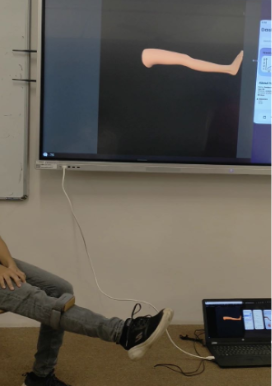
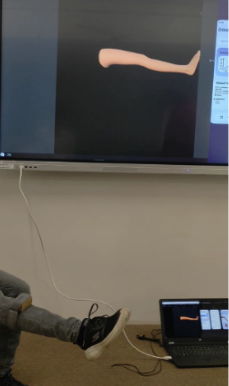
abt project

diff --git a/src/components/pg1.js b/src/components/pg1.js
@@ -1,5 +1,5 @@
 import React from 'react';
-import pic from "..//image//pic1.png";
+import pic from "..//image//picture.png";
 
 class PhysioMizeComponent extends React.Component {
   render() {
@@ -19,7 +19,7 @@ class PhysioMizeComponent extends React.Component {
           width: '100%',
           maxWidth: '1200px', // Adjust the maximum width based on your design requirements
           margin: '0 auto', // Center the content horizontally
-          height: '400px', // Fixed height for the content box
+          height: '300px', // Reduced the height to 300px for the content box
           marginBottom: '20px',
         }}>
           {/* Left Box (Content) */}
@@ -31,7 +31,7 @@ class PhysioMizeComponent extends React.Component {
             height: '100%', // Set the height to occupy the entire content wrapper height
             boxShadow: '0 4px 6px rgba(0, 0, 0, 0.1)',
             boxSizing: 'border-box',
-            overflow: 'hidden', // Hide any overflowing content
+            overflowY: 'auto', // Add scrollbar when content overflows vertically
           }}>
             {/* Heading */}
             <h1 style={{
@@ -50,7 +50,7 @@ class PhysioMizeComponent extends React.Component {
           </div>
 
           {/* Image (Right) */}
-          <img src={pic} alt="Physio-Mize" style={{ width: '30%', height: '100%', maxWidth: '300px', borderRadius: '10px', marginLeft: '5%' }} />
+          <img src={pic} alt="Physio-Mize" style={{ height: '100%', maxWidth: '100%', borderRadius: '10px', marginLeft: '5%' }} />
         </div>
       </div>
     );

diff --git a/src/components/page3.js b/src/components/page3.js
@@ -31,7 +31,7 @@ class PhysioMizeComponent extends React.Component {
             height: '100%', // Set the height to occupy the entire content wrapper height
             boxShadow: '0 4px 6px rgba(0, 0, 0, 0.1)',
             boxSizing: 'border-box',
-            // Hide any overflowing content
+            overflowY: 'auto', // Add scrollbar when content overflows vertically
           }}>
             {/* Heading */}
             <h1 style={{
@@ -43,6 +43,7 @@ class PhysioMizeComponent extends React.Component {
             {/* Paragraphs */}
             <p style={{ fontSize: '16px', marginBottom: 0 }}>
               With high-precision sensors and an intuitive app interface, we enable patients to actively participate in their recovery. Real-time data transmission and pain localization features empower physiotherapists to craft personalized treatment plans. 
+              {/* Add more content here if needed */}
             </p>
           </div>
 

diff --git a/src/components/page2.js b/src/components/page2.js
@@ -1,5 +1,5 @@
 import React from 'react';
-import pic from '..//image//pic2.png';
+import pic from '..//image//hands.png';
 
 class PhysioMizeComponent extends React.Component {
   render() {
@@ -35,7 +35,7 @@ class PhysioMizeComponent extends React.Component {
             height: '100%', // Height to occupy the entire content wrapper height
             boxShadow: '0 4px 6px rgba(0, 0, 0, 0.1)',
             boxSizing: 'border-box',
-            overflow: 'hidden', // Hide any overflowing content
+            overflowY: 'auto', // Add scrollbar when content overflows vertically
           }}>
             {/* Heading */}
             <h1 style={{
